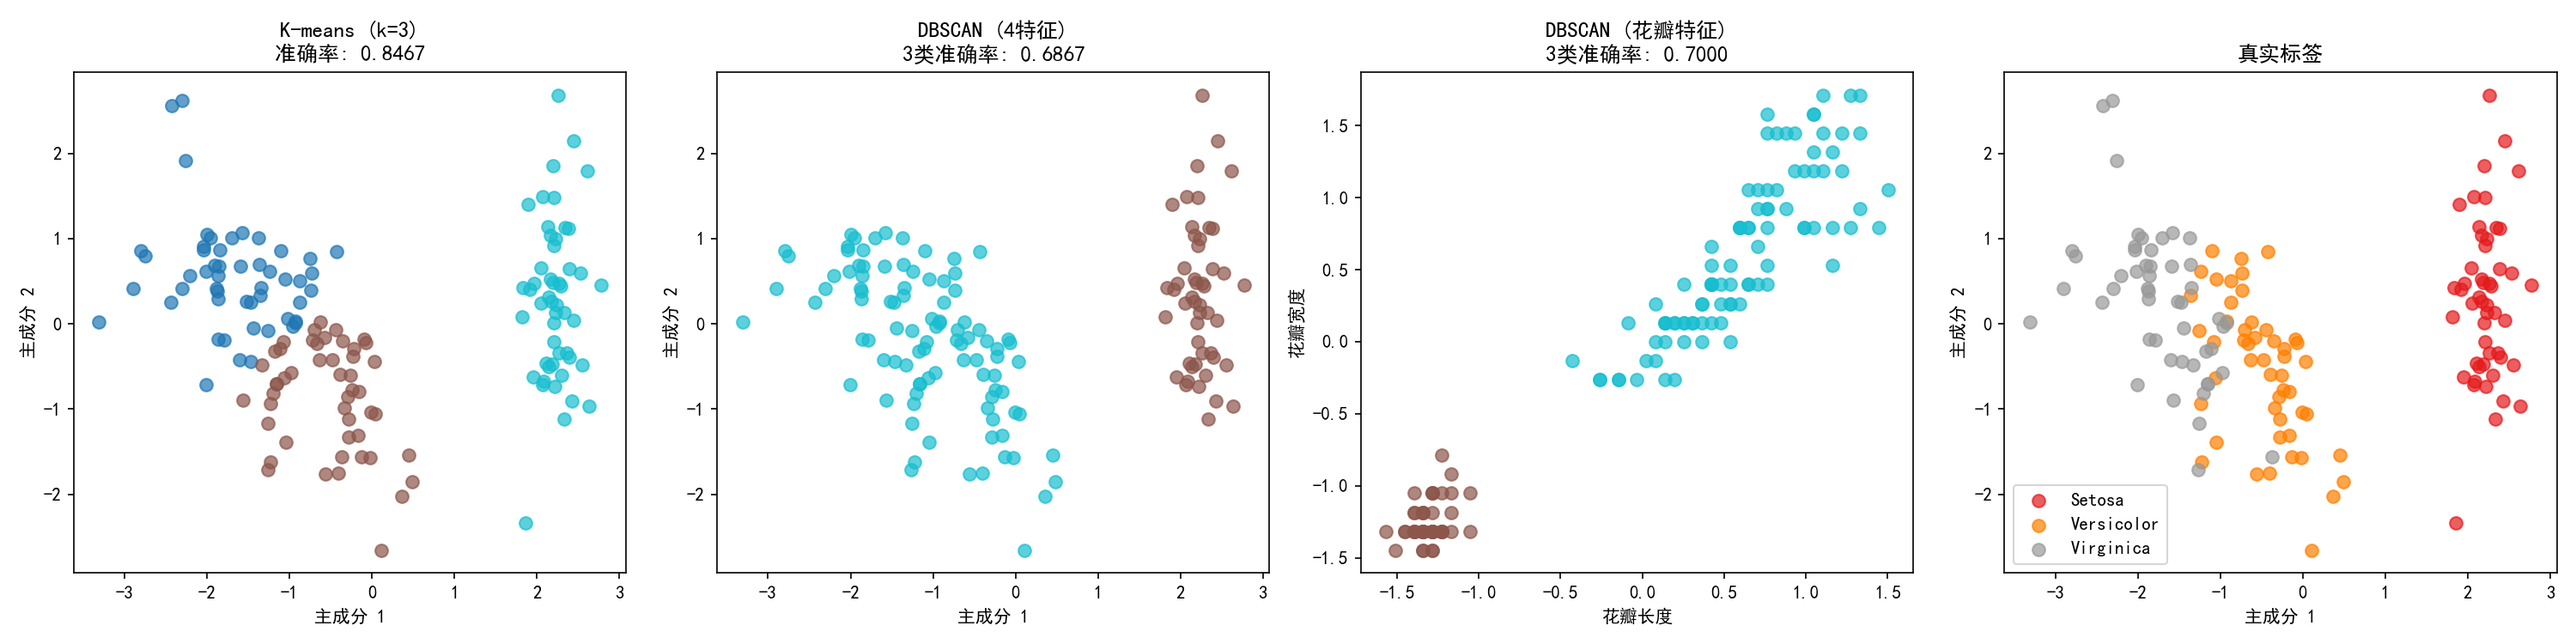
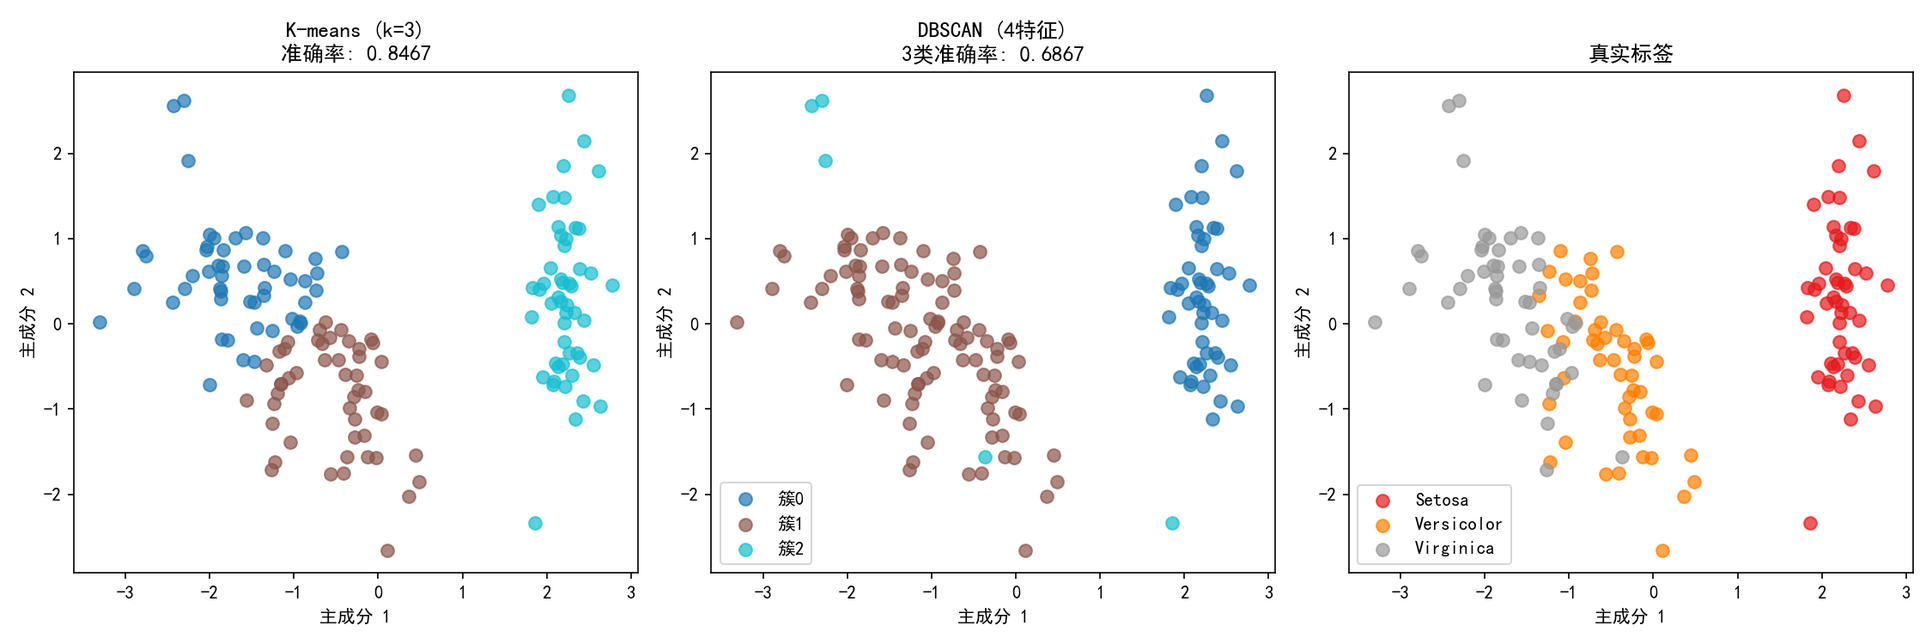
update logic

diff --git a/main.py b/main.py
@@ -96,28 +96,38 @@ def experiment_kmeans(X: np.ndarray, y: np.ndarray, output_dir: str):
 def relabel_noise_as_cluster(labels: np.ndarray) -> np.ndarray:
     """
     将噪声点（标签为-1）重新标记为一个新簇
-    
+    并将所有标签重新映射为连续的0, 1, 2...
+
     Args:
         labels: 原始标签（噪声点为-1）
-        
+
     Returns:
-        new_labels: 新标签（噪声点被分配到新簇）
+        new_labels: 新标签（噪声点被分配到新簇，标签为连续整数）
     """
     new_labels = labels.copy()
     noise_mask = labels == -1
     
+    # 获取非噪声点的标签并排序
+    unique_non_noise = np.unique(labels[labels >= 0])
+    
+    # 创建映射：原始标签 -> 新标签
+    label_map = {old: new for new, old in enumerate(unique_non_noise)}
+    
+    # 重新映射非噪声点
+    for old, new in label_map.items():
+        new_labels[labels == old] = new
+    
+    # 将噪声点分配到新簇
     if np.any(noise_mask):
-        # 找到当前最大的簇标签
-        max_label = np.max(labels[labels >= 0])
-        # 将噪声点分配到新簇
-        new_labels[noise_mask] = max_label + 1
+        new_cluster = len(unique_non_noise)
+        new_labels[noise_mask] = new_cluster
     
     return new_labels
 
 
 def experiment_dbscan(X: np.ndarray, y: np.ndarray, output_dir: str):
     """
-    DBSCAN聚类实验：调整eps和min_samples观察聚类结果变化
+    DBSCAN聚类实验：根据每个min_samples自动选择最优eps_range进行测试
     当只识别出2个簇时，将噪声点归为第3类
 
     Args:
@@ -129,25 +139,39 @@ def experiment_dbscan(X: np.ndarray, y: np.ndarray, output_dir: str):
     print("DBSCAN 聚类实验")
     print("=" * 60)
 
-    # 建议eps值
-    suggested_eps = suggest_eps(X, min_samples=5)
-    print(f"\n建议的eps值: {suggested_eps:.4f}")
-
-    # 测试不同的参数组合
-    eps_range = [0.3, 0.4, 0.5, 0.6, 0.7, 0.8]
     min_samples_range = [3, 4, 5, 6, 7]
-
     results = []
 
+    print("\n根据min_samples自动选择eps_range:")
+    print("-" * 50)
+    
+    # 为每个min_samples计算建议的eps值并设置eps_range
+    eps_ranges = {}
+    for min_samples in min_samples_range:
+        suggested = suggest_eps(X, min_samples=min_samples)
+        # 基于建议值设置eps范围（0.5倍到1.5倍，步长0.05）
+        eps_min = max(0.2, round(suggested * 0.5, 2))
+        eps_max = round(suggested * 1.5, 2)
+        eps_range = list(np.arange(eps_min, eps_max + 0.05, 0.05))
+        eps_range = [round(e, 2) for e in eps_range]
+        eps_ranges[min_samples] = eps_range
+        print(f"min_samples={min_samples}: 建议eps={suggested:.4f}, 测试范围={eps_range}")
+    
+    print("-" * 50)
+
+    # 热力图使用固定的eps_range
+    eps_range_heatmap = [0.3, 0.4, 0.5, 0.6, 0.7, 0.8]
+    min_samples_range_heatmap = [3, 4, 5, 6, 7]
+
     # 存储指标矩阵用于热力图
-    accuracy_matrix = np.zeros((len(min_samples_range), len(eps_range)))
-    accuracy_3class_matrix = np.zeros((len(min_samples_range), len(eps_range)))
-    silhouette_matrix = np.zeros((len(min_samples_range), len(eps_range)))
-    ch_matrix = np.zeros((len(min_samples_range), len(eps_range)))
-    n_clusters_matrix = np.zeros((len(min_samples_range), len(eps_range)))
+    accuracy_matrix = np.zeros((len(min_samples_range_heatmap), len(eps_range_heatmap)))
+    accuracy_3class_matrix = np.zeros((len(min_samples_range_heatmap), len(eps_range_heatmap)))
+    silhouette_matrix = np.zeros((len(min_samples_range_heatmap), len(eps_range_heatmap)))
+    ch_matrix = np.zeros((len(min_samples_range_heatmap), len(eps_range_heatmap)))
+    n_clusters_matrix = np.zeros((len(min_samples_range_heatmap), len(eps_range_heatmap)))
 
     for i, min_samples in enumerate(min_samples_range):
-        for j, eps in enumerate(eps_range):
+        for j, eps in enumerate(eps_range_heatmap):
             dbscan = DBSCAN(eps=eps, min_samples=min_samples)
             labels = dbscan.fit_predict(X)
 
@@ -163,13 +187,13 @@ def experiment_dbscan(X: np.ndarray, y: np.ndarray, output_dir: str):
 
             # 原始评估（噪声点单独处理）
             metrics = evaluate_clustering(X, labels, y)
-            
+
             # 如果只有2个簇且有噪声点，将噪声点归为第3类
             labels_3class = labels.copy()
             n_noise = dbscan.get_n_noise()
             if dbscan.n_clusters_ == 2 and n_noise > 0:
                 labels_3class = relabel_noise_as_cluster(labels)
-            
+
             # 计算3类准确率
             acc_3class = accuracy_score(y, labels_3class)
 
@@ -206,11 +230,13 @@ def experiment_dbscan(X: np.ndarray, y: np.ndarray, output_dir: str):
     valid_results = [r for r in results if r['n_clusters'] >= 2]
     if valid_results:
         best_result = max(valid_results, key=lambda r: r['acc_3class'])
-
-        print(f"\n最佳参数组合: eps={best_result['eps']}, min_samples={best_result['min_samples']}")
+        print(f"\n优化后最佳参数: eps={best_result['eps']}, min_samples={best_result['min_samples']}")
         print(f"原始准确率: {best_result['metrics']['accuracy']:.4f}")
         print(f"3类准确率（噪声点归为第3类）: {best_result['acc_3class']:.4f}")
-        print(f"簇数量: {best_result['n_clusters']}, 噪声点: {best_result['n_noise']}")
+        print(f"轮廓系数: {best_result['metrics']['silhouette_score']:.4f}")
+        print(f"CH指数: {best_result['metrics']['calinski_harabasz_score']:.2f}")
+        print(f"簇数量: {best_result['n_clusters']}")
+        print(f"噪声点: {best_result['n_noise']}")
 
         # 绘制最佳结果（使用3类标签）
         fig = plot_clusters_2d(X, best_result['labels_3class'],
@@ -226,7 +252,7 @@ def experiment_dbscan(X: np.ndarray, y: np.ndarray, output_dir: str):
         '簇数量': n_clusters_matrix
     }
 
-    fig = plot_dbscan_metrics(eps_range, min_samples_range, metrics_matrix)
+    fig = plot_dbscan_metrics(eps_range_heatmap, min_samples_range_heatmap, metrics_matrix)
     fig.savefig(os.path.join(output_dir, 'dbscan_metrics_heatmap.png'), dpi=150)
 
     # 返回最佳结果
@@ -237,6 +263,7 @@ def experiment_dbscan(X: np.ndarray, y: np.ndarray, output_dir: str):
 def experiment_dbscan_optimized(X: np.ndarray, y: np.ndarray, output_dir: str):
     """
     优化的DBSCAN聚类实验：使用花瓣特征提升准确率
+    根据每个min_samples自动选择最优eps_range进行测试
     当只识别出2个簇时，将噪声点归为第3类
 
     Args:
@@ -254,13 +281,33 @@ def experiment_dbscan_optimized(X: np.ndarray, y: np.ndarray, output_dir: str):
     print("\n使用花瓣特征（petal_length, petal_width）进行聚类")
     print("原因：花瓣特征对三个类别的区分度更高")
 
+    min_samples_range = [3, 4, 5, 6, 7]
+    
+    print("\n根据min_samples自动选择eps_range:")
+    print("-" * 50)
+    
+    # 为每个min_samples计算建议的eps值并设置eps_range
+    eps_ranges = {}
+    for min_samples in min_samples_range:
+        suggested = suggest_eps(X_petal, min_samples=min_samples)
+        # 基于建议值设置eps范围（0.5倍到1.5倍，步长0.05）
+        eps_min = max(0.1, round(suggested * 0.5, 2))
+        eps_max = round(suggested * 1.5, 2)
+        eps_range = list(np.arange(eps_min, eps_max + 0.05, 0.05))
+        eps_range = [round(e, 2) for e in eps_range]
+        eps_ranges[min_samples] = eps_range
+        print(f"min_samples={min_samples}: 建议eps={suggested:.4f}, 测试范围={eps_range}")
+    
+    print("-" * 50)
+
     # 搜索最佳参数
     best_result = None
     best_acc = 0
 
-    for eps in np.arange(0.3, 0.8, 0.05):
-        for min_samples in range(3, 8):
-            dbscan = DBSCAN(eps=round(eps, 2), min_samples=min_samples)  # type: ignore
+    for min_samples in min_samples_range:
+        eps_range = eps_ranges[min_samples]
+        for eps in eps_range:
+            dbscan = DBSCAN(eps=eps, min_samples=min_samples)
             labels = dbscan.fit_predict(X_petal)
 
             unique_labels = np.unique(labels[labels >= 0])
@@ -272,7 +319,7 @@ def experiment_dbscan_optimized(X: np.ndarray, y: np.ndarray, output_dir: str):
             n_noise = dbscan.get_n_noise()
             if dbscan.n_clusters_ == 2 and n_noise > 0:
                 labels_3class = relabel_noise_as_cluster(labels)
-            
+
             # 计算3类准确率
             acc_3class = accuracy_score(y, labels_3class)
 
@@ -280,7 +327,7 @@ def experiment_dbscan_optimized(X: np.ndarray, y: np.ndarray, output_dir: str):
                 best_acc = acc_3class
                 metrics = evaluate_clustering(X_petal, labels, y)
                 best_result = {
-                    'eps': round(eps, 2),
+                    'eps': eps,
                     'min_samples': min_samples,
                     'labels': labels,
                     'labels_3class': labels_3class,
@@ -367,8 +414,8 @@ def compare_algorithms(kmeans_results: list, dbscan_result: dict,
         fig = plot_comparison(kmeans_best['metrics'], dbscan_metrics_3class)
         fig.savefig(os.path.join(output_dir, 'algorithm_comparison.png'), dpi=150)
 
-    # 绘制并排对比图
-    fig, axes = plt.subplots(1, 4, figsize=(20, 5))
+    # 绘制并排对比图（K-means、DBSCAN 4特征、真实标签）
+    fig, axes = plt.subplots(1, 3, figsize=(15, 5))
 
     # K-means结果
     from src.visualization.plot import pca_reduce
@@ -388,27 +435,19 @@ def compare_algorithms(kmeans_results: list, dbscan_result: dict,
     if dbscan_result:
         ax = axes[1]
         labels_plot = dbscan_result['labels_3class']
-        for i in range(3):
-            mask = labels_plot == i
-            ax.scatter(X_2d[mask, 0], X_2d[mask, 1], c=[colors[i]], s=50, alpha=0.7)
+        unique_labels = np.unique(labels_plot)
+        # 使用实际存在的标签进行绘制
+        for idx, label in enumerate(sorted(unique_labels)):
+            mask = labels_plot == label
+            ax.scatter(X_2d[mask, 0], X_2d[mask, 1], c=[colors[idx]], s=50, alpha=0.7,
+                      label=f'簇{idx}')
         ax.set_title(f"DBSCAN (4特征)\n3类准确率: {dbscan_result['acc_3class']:.4f}")
         ax.set_xlabel('主成分 1')
         ax.set_ylabel('主成分 2')
-
-    # DBSCAN（花瓣特征，噪声点归为第3类）
-    if dbscan_optimized:
-        ax = axes[2]
-        X_petal_2d = X[:, 2:4]
-        labels_plot = dbscan_optimized['labels_3class']
-        for i in range(3):
-            mask = labels_plot == i
-            ax.scatter(X_petal_2d[mask, 0], X_petal_2d[mask, 1], c=[colors[i]], s=50, alpha=0.7)
-        ax.set_title(f"DBSCAN (花瓣特征)\n3类准确率: {dbscan_optimized['acc_3class']:.4f}")
-        ax.set_xlabel('花瓣长度')
-        ax.set_ylabel('花瓣宽度')
+        ax.legend()
 
     # 真实标签
-    ax = axes[3]
+    ax = axes[2]
     true_colors = plt.cm.Set1(np.linspace(0, 1, 3))  # type: ignore
     label_names = ['Setosa', 'Versicolor', 'Virginica']
     for i in range(3):

diff --git a/src/algorithms/dbscan.py b/src/algorithms/dbscan.py
@@ -230,21 +230,35 @@ def suggest_eps(X: np.ndarray, min_samples: int = 5) -> float:
 if __name__ == "__main__":
     # 测试DBSCAN
     import sys
-    sys.path.append('..')
-    from data.iris import load_iris, normalize
-    
+    import os
+    sys.path.insert(0, os.path.dirname(os.path.dirname(os.path.dirname(os.path.abspath(__file__)))))
+    from src.data.iris import load_iris, normalize
+    from src.evaluation.metrics import evaluate_clustering
+
     X, y = load_iris()
     X_norm, _, _ = normalize(X)
-    
+
     # 建议eps值
-    suggested = suggest_eps(X_norm, min_samples=5)
+    suggested = suggest_eps(X_norm, min_samples=9)
     print(f"建议的eps值: {suggested:.4f}")
-    
+
     # 测试DBSCAN
-    dbscan = DBSCAN(eps=0.5, min_samples=5)
+    dbscan = DBSCAN(eps=0.62, min_samples=9)
     labels = dbscan.fit_predict(X_norm)
-    
+
+    print(f"\n=== DBSCAN 聚类结果 ===")
     print(f"簇数量: {dbscan.n_clusters_}")
     print(f"噪声点数量: {dbscan.get_n_noise()}")
-    print(f"核心点数量: {len(dbscan.core_sample_indices_)}") # type: ignore
-    print(f"标签分布: {np.bincount(labels + 1)}")  # +1因为噪声点为-1
+    print(f"核心点数量: {len(dbscan.core_sample_indices_)}")  # type: ignore
+    
+    # 评估指标
+    metrics = evaluate_clustering(X_norm, labels, y)
+    print(f"\n=== 评估指标 ===")
+    print(f"准确率: {metrics['accuracy']:.4f}")
+    print(f"轮廓系数: {metrics['silhouette_score']:.4f}")
+    print(f"CH指数: {metrics['calinski_harabasz_score']:.2f}")
+    
+    # 标签分布
+    print(f"\n=== 标签分布 ===")
+    print(f"预测标签分布: {np.bincount(labels + 1)}")  # +1因为噪声点为-1
+    print(f"真实标签分布: {np.bincount(y)}")

diff --git a/src/algorithms/kmeans.py b/src/algorithms/kmeans.py
@@ -214,8 +214,9 @@ def euclidean_distance(a: np.ndarray, b: np.ndarray) -> float:
 if __name__ == "__main__":
     # 测试K-means
     import sys
-    sys.path.append('..')
-    from data.iris import load_iris, normalize
+    import os
+    sys.path.insert(0, os.path.dirname(os.path.dirname(os.path.dirname(os.path.abspath(__file__)))))
+    from src.data.iris import load_iris, normalize
 
     X, y = load_iris()
     X_norm, _, _ = normalize(X)
